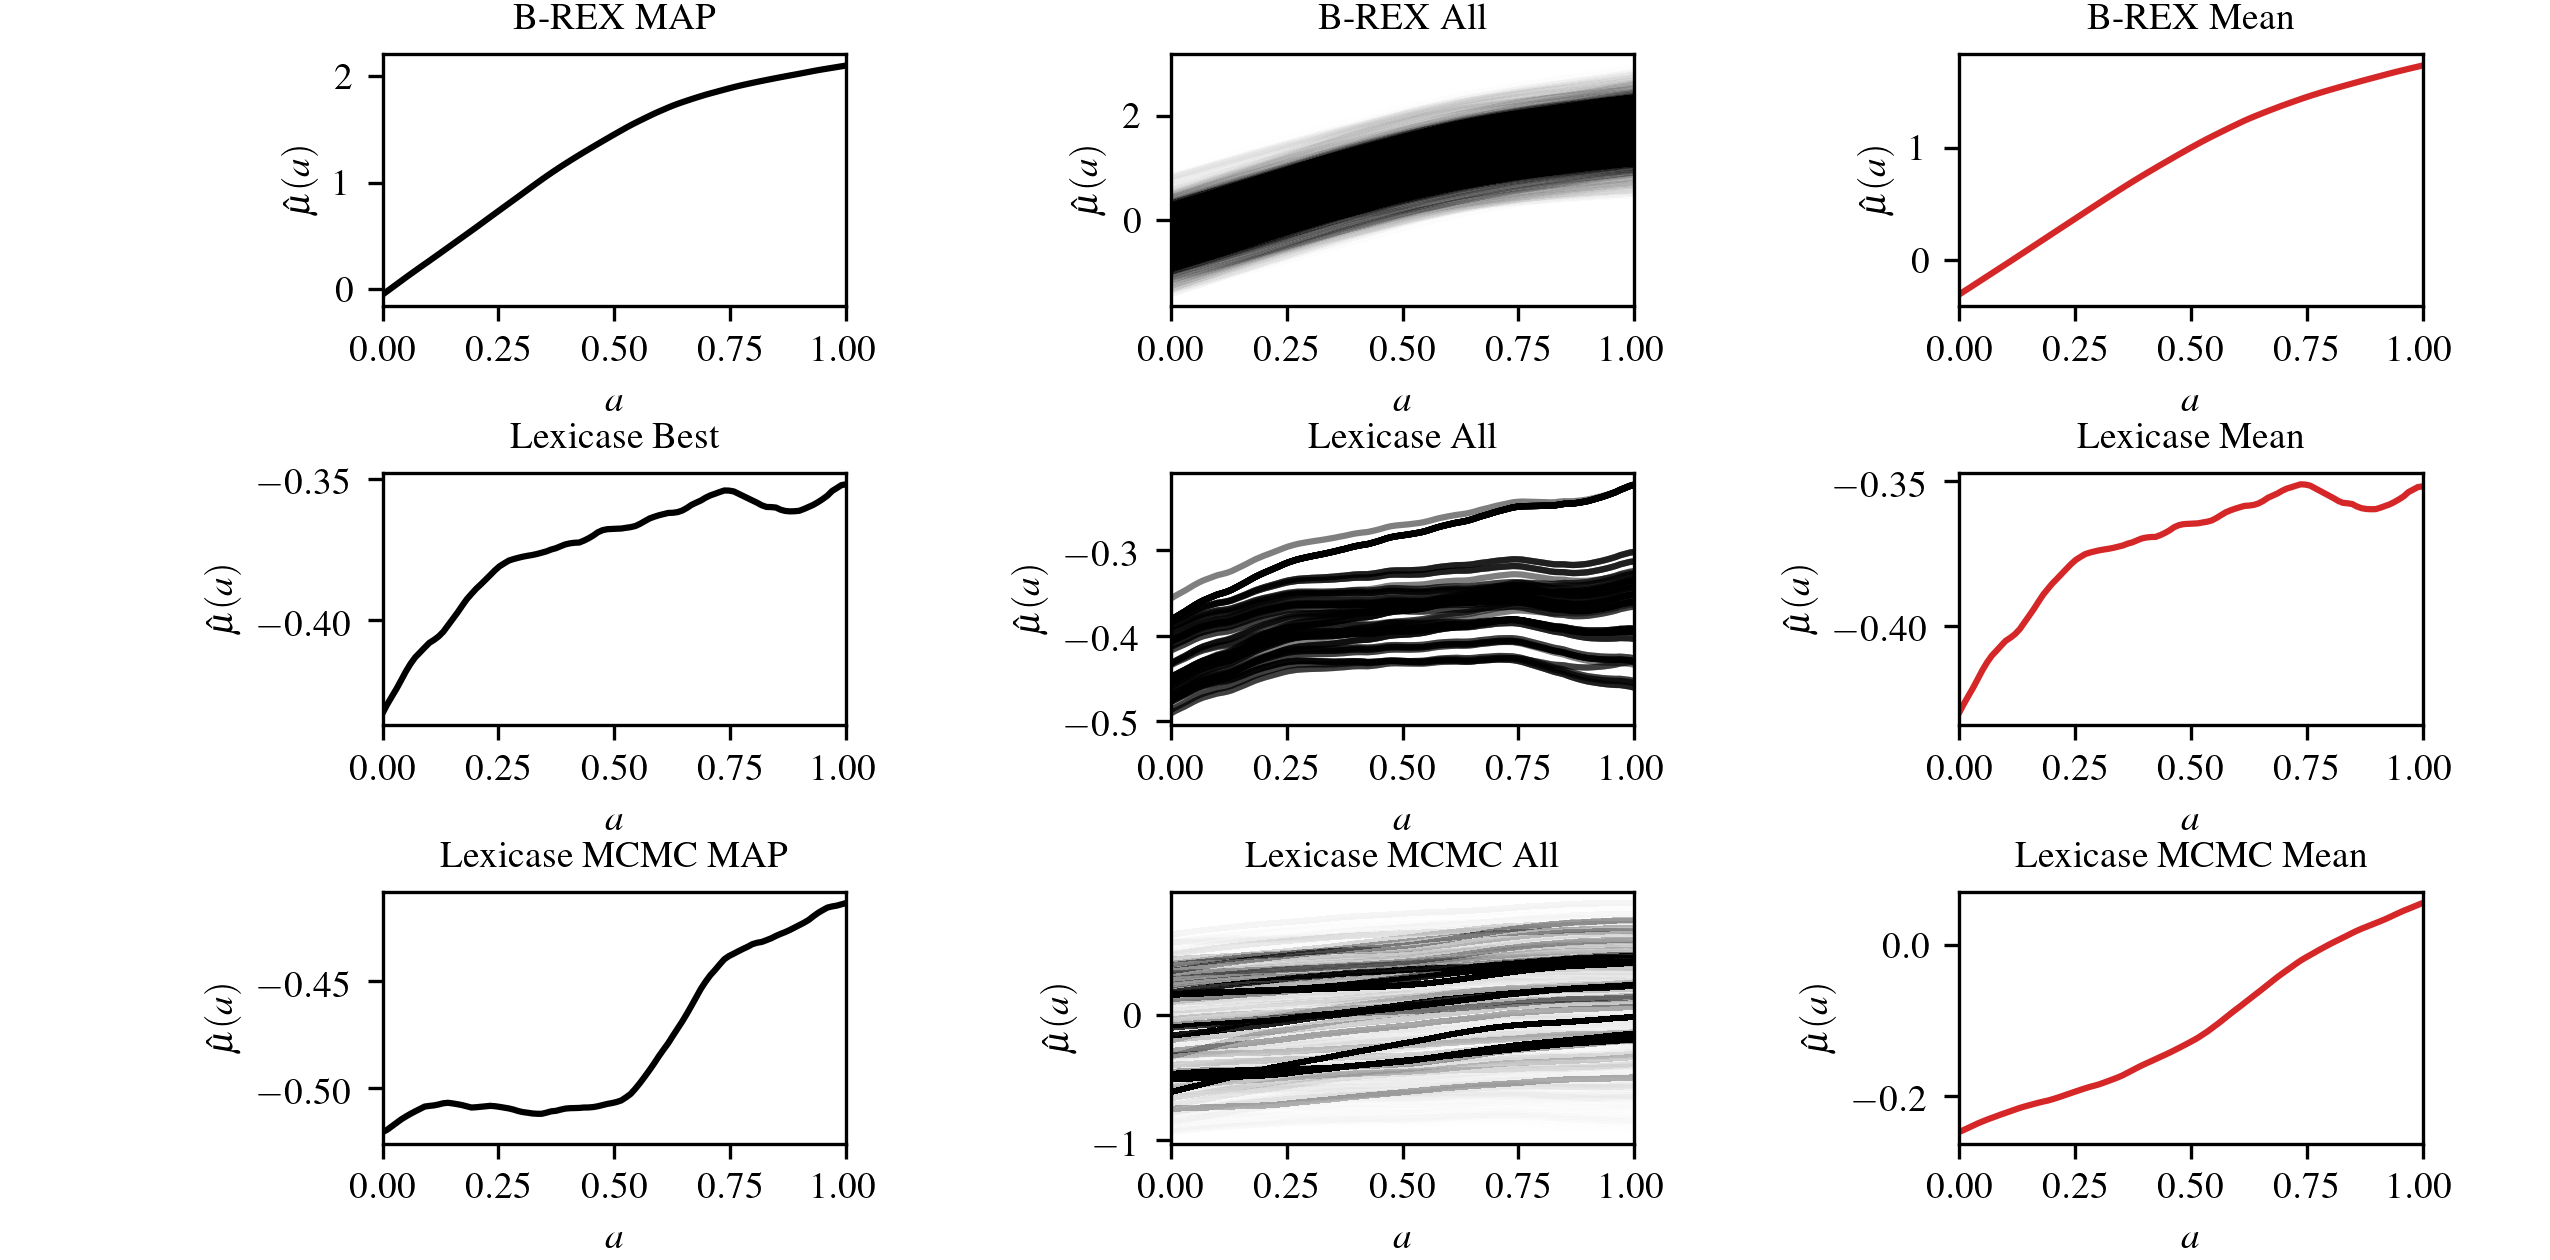
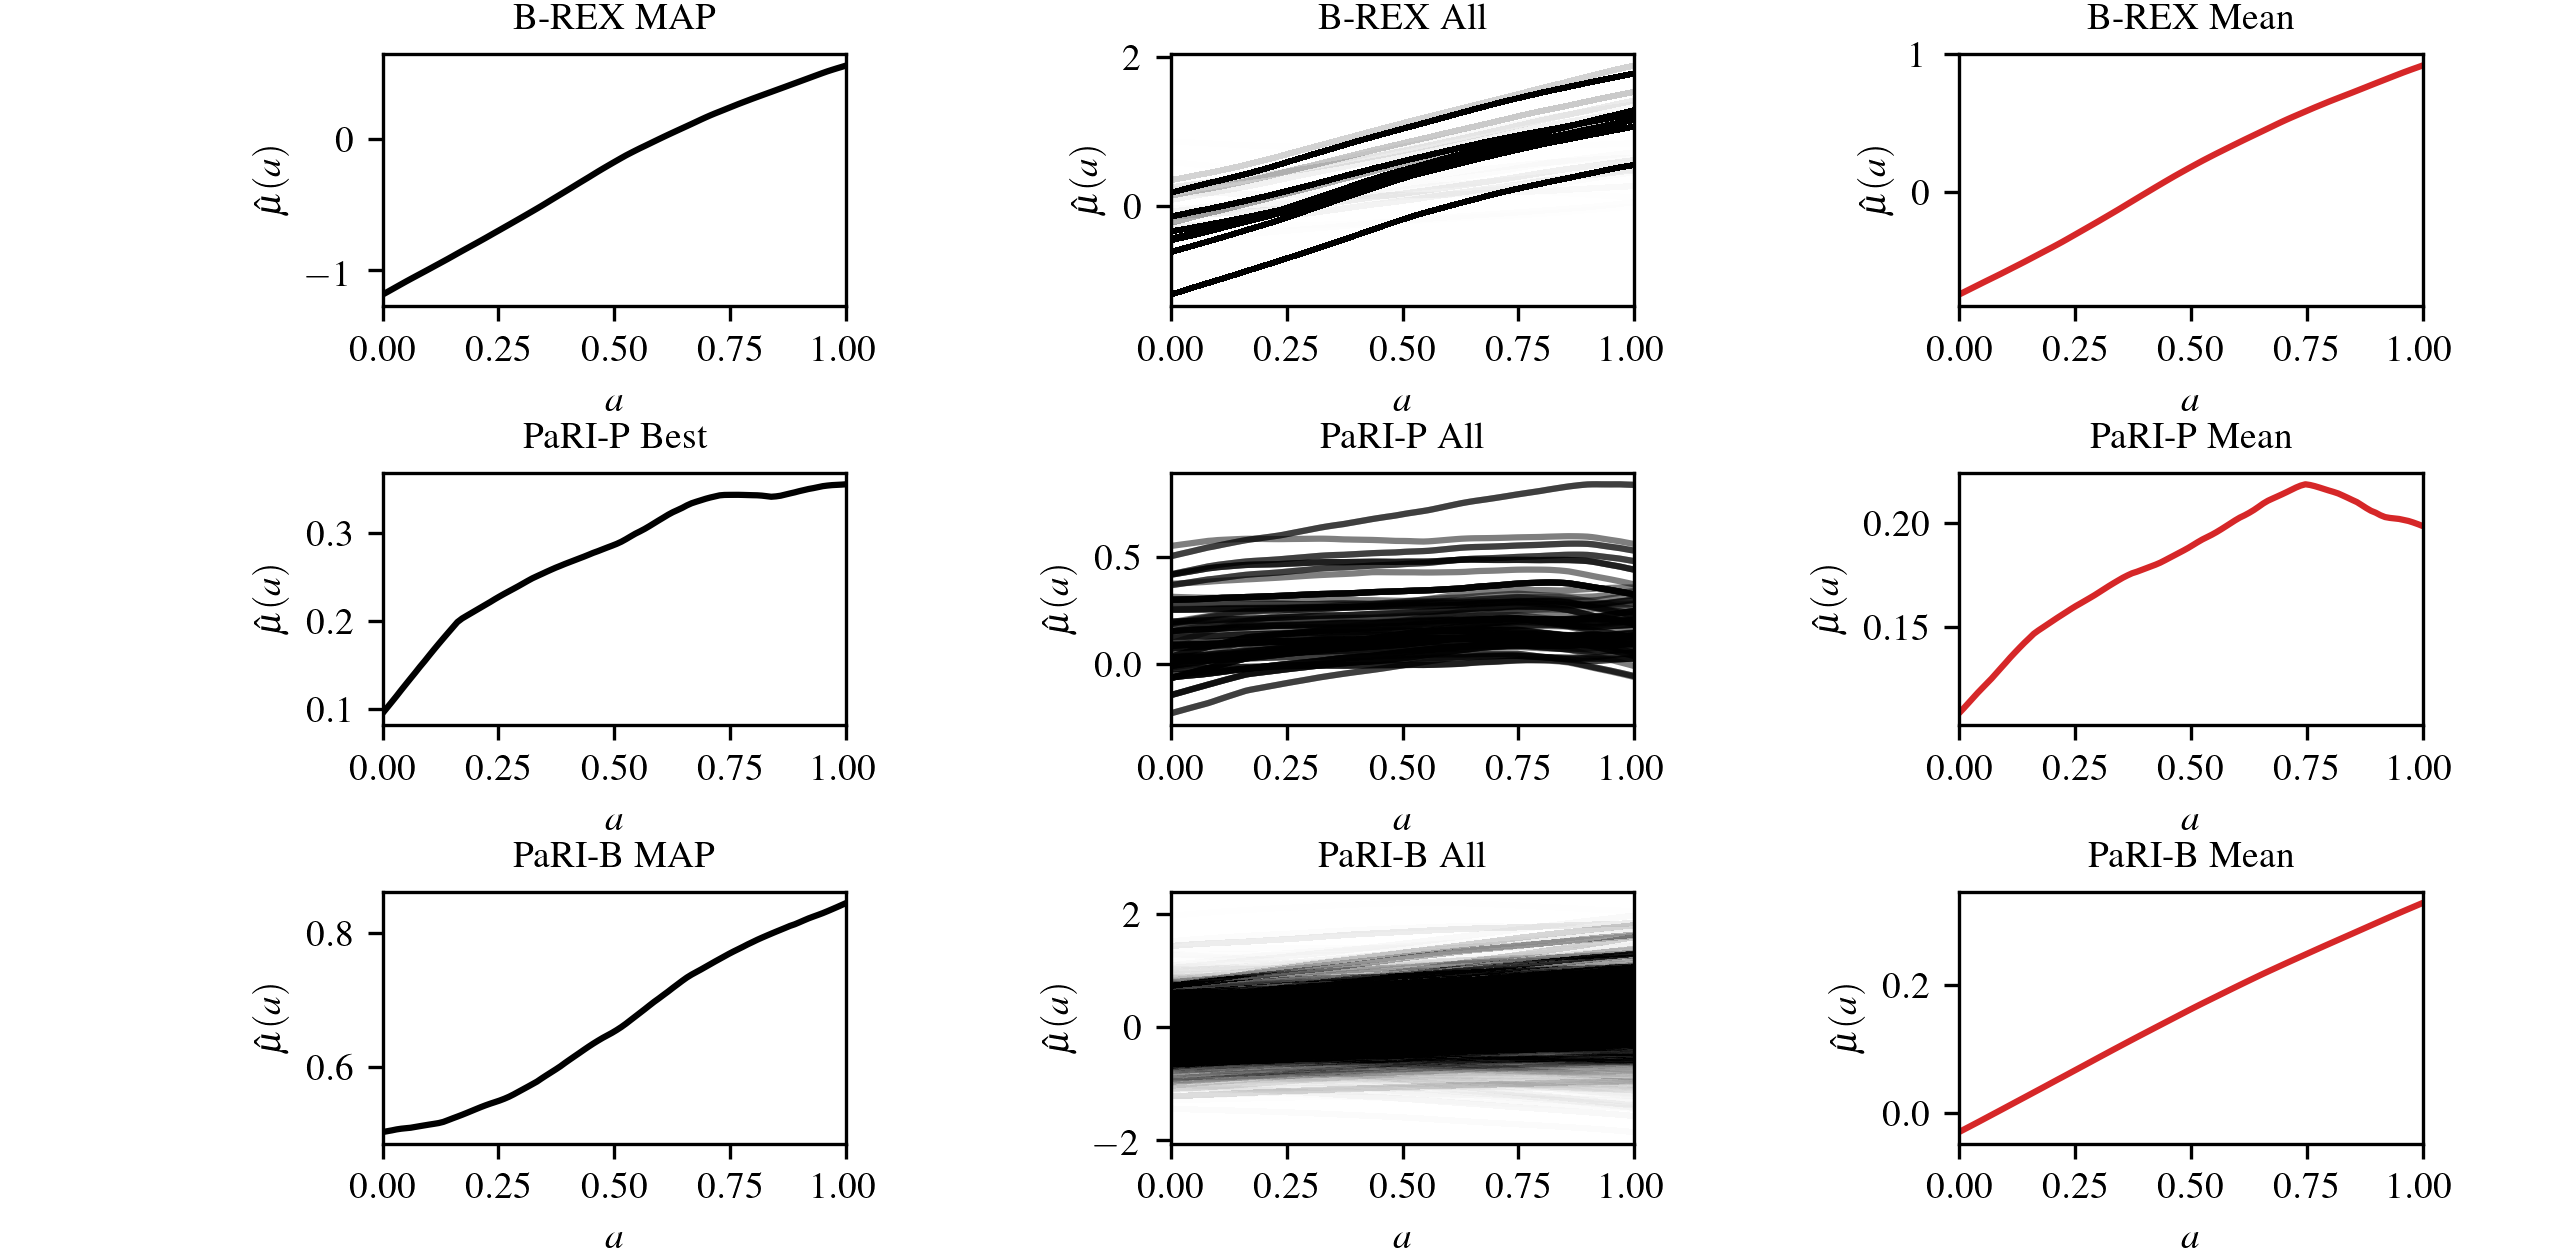
added main code, small experimental results.

diff --git a/hidden_context/synthetic_experiments.py b/hidden_context/synthetic_experiments.py
@@ -304,7 +304,7 @@ def train_brex(
     #print(f"labels: {labels}")
     #print(f"labels shape: {labels.shape}")
 
-    best_reward_lastlayer, chain, logliks = mcmc_map_search(reward_model, preferences, features0, features1, num_iterations*10, 0.01, 1, likelihood)
+    best_reward_lastlayer, chain, logliks = mcmc_map_search(reward_model, preferences, features0, features1, num_iterations*10, 0.1, 1, likelihood)
 
     #interpolating the features to get variances
     state_interpolated = torch.linspace(0, 1, 100).to(device)
@@ -341,8 +341,10 @@ def train_brex(
         sum_passes_1 = torch.sum(passes_1)
         sum_passes_2 = torch.sum(passes_2)
 
-        s0 = sample_state(40).to(device)
-        s1 = sample_state(40).to(device)
+        s0 = sample_state(50).to(device)
+        s1 = sample_state(50).to(device)
+        #s0 = torch.linspace(0, 1, 20).to(device)[:, None]
+        #s1 = torch.linspace(0.1, 1, 20).to(device)[:, None]
         f0 = reward_model.get_penultimate_layer(s0)
         f1 = reward_model.get_penultimate_layer(s1)
         r0_z1 = reward_fn(s0, torch.tensor(1))
@@ -507,7 +509,7 @@ def train_lex(
     #print(f"labels: {labels}")
     #print(f"labels shape: {labels.shape}")
 
-    population, scores, best_scores = lexicase_search(preferences, features0, features1, num_iterations//10, num_iterations, 0.01, normalize=True, downsample_level=5)
+    population, scores, best_scores = lexicase_search(preferences, features0, features1, num_iterations//10, num_iterations//10, 0.1, normalize=True, downsample_level=1)
 
     sum_scores = np.sum(scores, axis=1)
     best_reward_lastlayer = torch.from_numpy(population[np.argmax(sum_scores)])
@@ -548,8 +550,11 @@ def train_lex(
 
         #pick one more individual
 
-        s0 = sample_state(40).to(device)
-        s1 = sample_state(40).to(device)
+        s0 = sample_state(50).to(device)
+        s1 = sample_state(50).to(device)
+        #take states between 0 and 1
+        #s0 = torch.linspace(0, 1, 50).to(device)[:, None]
+        #s1 = torch.linspace(0.1, 1, 20).to(device)[:, None]
         f0 = reward_model.get_penultimate_layer(s0)
         f1 = reward_model.get_penultimate_layer(s1)
         r0_z1 = reward_fn(s0, torch.tensor(1))
@@ -1079,7 +1084,7 @@ def main(  # noqa: C901
 
         #lexicase Subplot
         lex_ax = figure.add_subplot(num_rows, num_cols, 4)
-        lex_ax.set_title("Lexicase Best", **title_kwargs)
+        lex_ax.set_title("PaRI-P Best", **title_kwargs)
         lex_ax.set_xlabel(r"$\alta$")
         lex_ax.set_ylabel(r"$\hat{\mu}(\alta)$")
         lex_ax.set_xlim(0, 1)
@@ -1105,7 +1110,7 @@ def main(  # noqa: C901
 
         #lex all
         lex_ax = figure.add_subplot(num_rows, num_cols, 5)
-        lex_ax.set_title("Lexicase All", **title_kwargs)
+        lex_ax.set_title("PaRI-P All", **title_kwargs)
         lex_ax.set_xlabel(r"$\alta$")
         lex_ax.set_ylabel(r"$\hat{\mu}(\alta)$")
         lex_ax.set_xlim(0, 1)
@@ -1122,7 +1127,7 @@ def main(  # noqa: C901
 
         #lexicase mean
         lex_ax = figure.add_subplot(num_rows, num_cols, 6)
-        lex_ax.set_title("Lexicase Mean", **title_kwargs)
+        lex_ax.set_title("PaRI-P Mean", **title_kwargs)
         lex_ax.set_xlabel(r"$\alta$")
         lex_ax.set_ylabel(r"$\hat{\mu}(\alta)$")
         lex_ax.set_xlim(0, 1)
@@ -1172,7 +1177,7 @@ def main(  # noqa: C901
 
         #brex w/ lexicase likelihood
         lexmcmc_ax = figure.add_subplot(num_rows, num_cols, 7)
-        lexmcmc_ax.set_title("Lexicase MCMC MAP", **title_kwargs)
+        lexmcmc_ax.set_title("PaRI-B MAP", **title_kwargs)
         lexmcmc_ax.set_xlabel(r"$\alta$")
         lexmcmc_ax.set_ylabel(r"$\hat{\mu}(\alta)$")
         lexmcmc_ax.set_xlim(0, 1)
@@ -1185,7 +1190,7 @@ def main(  # noqa: C901
         #brex_ax.fill_between(x.cpu(), 0, lex_mcmc_std, alpha=0.2, color=color)
 
         lexmcmc_ax = figure.add_subplot(num_rows, num_cols, 8)
-        lexmcmc_ax.set_title("Lexicase MCMC All", **title_kwargs)
+        lexmcmc_ax.set_title("PaRI-B All", **title_kwargs)
         lexmcmc_ax.set_xlabel(r"$\alta$")
         lexmcmc_ax.set_ylabel(r"$\hat{\mu}(\alta)$")
         lexmcmc_ax.set_xlim(0, 1)
@@ -1193,7 +1198,7 @@ def main(  # noqa: C901
 
         #plot mean of B-REX
         lexmcmc_ax = figure.add_subplot(num_rows, num_cols, 9)
-        lexmcmc_ax.set_title("Lexicase MCMC Mean", **title_kwargs)
+        lexmcmc_ax.set_title("PaRI-B Mean", **title_kwargs)
         lexmcmc_ax.set_xlabel(r"$\alta$")
         lexmcmc_ax.set_ylabel(r"$\hat{\mu}(\alta)$")
         lexmcmc_ax.set_xlim(0, 1)
